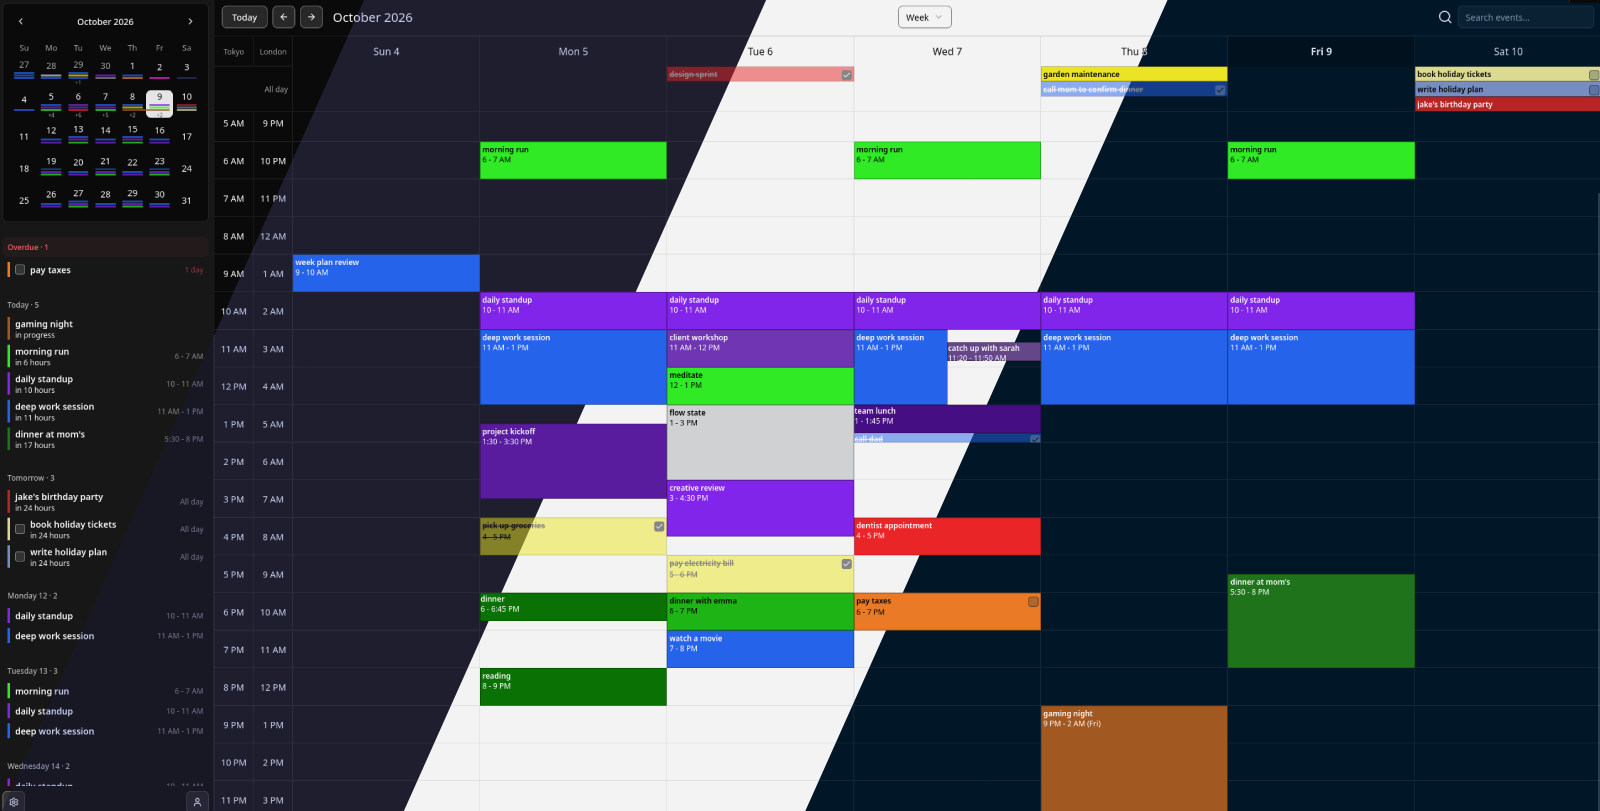
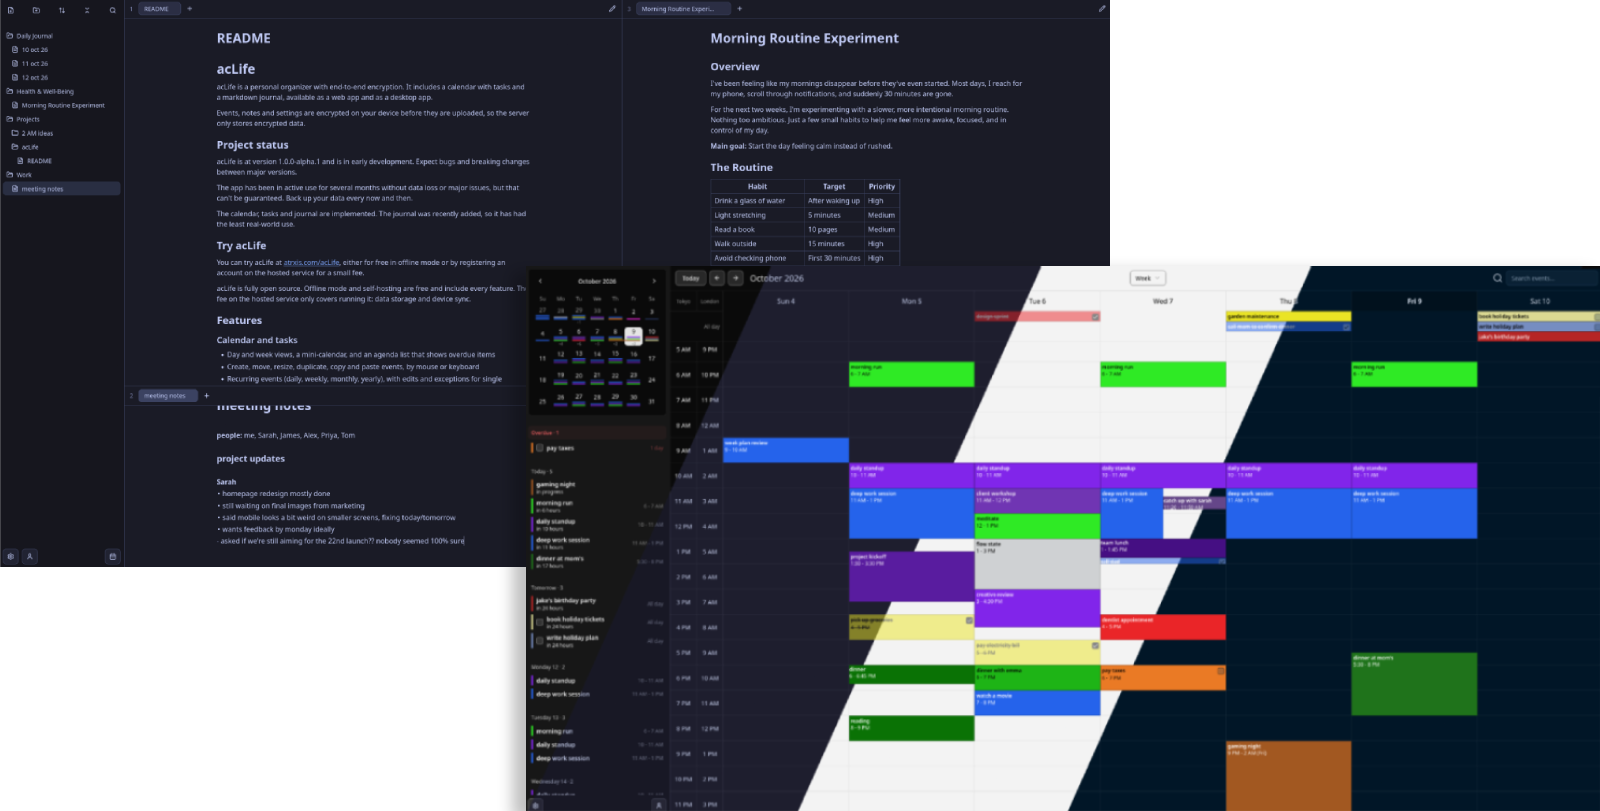
docs: update readmes

diff --git a/README.md b/README.md
@@ -1,8 +1,8 @@
 # acLife
 
-acLife is a personal organizer with end-to-end encryption. It currently includes a calendar with tasks, available as a web app and as a desktop app. A journal is planned.
+acLife is a personal organizer with end-to-end encryption. It includes a calendar with tasks and a markdown journal, available as a web app and as a desktop app.
 
-Events and settings are encrypted on your device before they are uploaded, so the server only stores encrypted data.
+Events, notes and settings are encrypted on your device before they are uploaded, so the server only stores encrypted data.
 
 <p align="center">
   <img src="screenshots/hero.png" alt="acLife calendar, week view" width="900">
@@ -10,11 +10,11 @@ Events and settings are encrypted on your device before they are uploaded, so th
 
 ## Project status
 
-acLife is at version 0.1.0 and is in early development. Expect bugs and breaking changes between versions.
+acLife is at version 1.0.0-alpha.1 and is in early development. Expect bugs and breaking changes between major versions.
 
 The app has been in active use for several months without data loss or major issues, but that can't be guaranteed. Back up your data every now and then.
 
-The calendar and tasks are implemented. The journal is not built yet.
+The calendar, tasks and journal are implemented. The journal was recently added, so it has had the least real-world use.
 
 ## Try acLife
 
@@ -35,9 +35,17 @@ acLife is fully open source. Offline mode and self-hosting are free and include 
 - Search across the whole calendar
 - Event notifications by sound, device notification, or both
 
+### Journal
+
+- Notes and folders in a tree, with search and sorting by name, modified or created date
+- Split panes and tabs, with drag and drop (including touch) to move notes and arrange panes
+- Markdown editor with live preview, and a per-pane reading mode
+- Keyboard navigation for the tree, tabs and panes
+- Notes sync between your devices. The pane layout, sort order and open folders stay on the device.
+
 ### Privacy and security
 
-- Events and settings are encrypted with AES-GCM using a random master key. The master key is protected by your password with Argon2id.
+- Events, notes and settings are encrypted with AES-GCM using a random master key. The master key is protected by your password with Argon2id.
 - Login uses SRP, so your password is never sent to the server.
 - Events are filed under hashed week buckets, so the server can return the weeks you are viewing without knowing which dates they are.
 - You can unlock with your password, a PIN, or stay unlocked on a device. The desktop app protects PINs with the operating system keychain.
@@ -46,7 +54,7 @@ acLife is fully open source. Offline mode and self-hosting are free and include 
 
 ### Sync and devices
 
-- Changes sync live between your devices.
+- Calendar and journal changes sync live between your devices.
 - Settings sync too, and you choose which settings are synced and which stay on the device.
 - A web app, and a desktop app for Windows, Linux and macOS with native notifications and automatic updates.
 
@@ -61,7 +69,7 @@ acLife is highly customizable. See the settings pages for the full list.
 - Keyboard navigation and screen reader support, checked by automated accessibility tests
 
 <p align="center">
-  <img src="screenshots/week-view.png" alt="Week view with events" width="900">
+  <img src="screenshots/settings.png" alt="Week view with events" width="900">
 </p>
 
 ## Technology

diff --git a/client/README.md b/client/README.md
@@ -2,7 +2,7 @@
 
 The web and desktop app for [acLife](../README.md). One React codebase runs in the browser and, wrapped in Tauri, as a native app on Windows, Linux and macOS.
 
-All encryption happens here. Events, settings and keys are encrypted and decrypted on your device, and the [server](../server/README.md) only ever stores ciphertext. See the [main README](../README.md#how-it-works) for how it works.
+All encryption happens here. Events, notes, settings and keys are encrypted and decrypted on your device, and the [server](../server/README.md) only ever stores ciphertext.
 
 ## Getting the app
 
@@ -17,6 +17,7 @@ On first launch, enter the address of the server you want to use, or choose offl
 - Tailwind CSS 4 with shadcn/ui components on Radix
 - Tauri 2 (Rust) for the desktop app
 - Web Crypto, Argon2id (`argon2-browser`) and SRP for the cryptography
+- CodeMirror 6 and react-markdown for the journal
 - i18next for translations, luxon for dates
 - Vitest and Testing Library for tests
 
@@ -68,12 +69,12 @@ Tests include accessibility checks (jest-axe). Tests run in UTC.
 
 | Path | Contents |
 |---|---|
-| `src/App.tsx` | Provider tree: settings, theme, API, storage, user, calendar |
-| `src/components/` | UI. `calendar/` is the calendar grid, editor and agenda, `settings/` the settings dialog, `ui/` the shared primitives |
+| `src/App.tsx` | Provider tree: settings, theme, API, storage, user, calendar, journal |
+| `src/components/` | UI. `calendar/` is the calendar grid, editor and agenda, `journal/` the journal tree, tabs, panes and editor, `settings/` the settings dialog, `ui/` the shared primitives |
 | `src/context/` | React providers for the API, user and keys, storage and settings |
-| `src/hooks/` | Hooks, including calendar loading, saving and sync |
-| `src/lib/` | Pure logic: encryption (`crypt.ts`), recurrence, buckets, the event cache |
-| `src/reducers/` | Calendar state |
+| `src/hooks/` | Hooks, including calendar and journal loading, saving and sync |
+| `src/lib/` | Pure logic: encryption (`crypt.ts`), recurrence, buckets, the event cache, journal items, layout and live preview (`journal/`) |
+| `src/reducers/` | Calendar and journal state |
 | `src/locales/` | One JSON bundle per language |
 | `public/themes/` | Built-in themes |
 | `public/sw.js` | Service worker for push notifications |

diff --git a/server/README.md b/server/README.md
@@ -2,13 +2,13 @@
 
 The backend for [acLife](../README.md). A single Go binary that provides the REST API, a server-sent event stream for live sync, session management, subscriptions and push notifications.
 
-The server stores only ciphertext. It never sees event contents or passwords, so it can be run by anyone without being trusted with your data. See the [main README](../README.md#how-it-works) for the security model.
+The server stores only ciphertext. It never sees event or note contents or passwords, so it can be run by anyone without being trusted with your data.
 
 ## What it does
 
 - **Accounts**: SRP login (the password never reaches the server), email verification, session management, lockout after repeated failed logins
-- **Storage**: encrypted events and settings, with per-user storage quotas
-- **Sync**: incremental sync by hashed week buckets, plus a live `/stream` (SSE) so devices see changes immediately
+- **Storage**: encrypted events, journal notes and settings, with per-user storage quotas
+- **Sync**: incremental sync of events by hashed week buckets and of journal notes by hash comparison, plus a live `/stream` (SSE) so devices see changes immediately
 - **Notifications**: schedules event notifications and delivers them by Web Push, or through the stream to the desktop app
 - **Subscriptions**: optional Stripe integration (checkout, customer portal, webhooks)
 - **Email**: queued, rate-limited SMTP delivery for verification mails
@@ -90,7 +90,7 @@ Web Push needs a VAPID key pair. Generate one with any VAPID tool and set `VAPID
 
 ### Subscriptions (Stripe)
 
-Stripe is optional. Without `STRIPE_API_KEY` the server runs with no subscription requirement and every account has full access. When it is set, a subscription is required for calendar and settings sync.
+Stripe is optional. Without `STRIPE_API_KEY` the server runs with no subscription requirement and every account has full access. When it is set, a subscription is required for calendar, journal and settings sync.
 
 | Variable | Description |
 |---|---|
